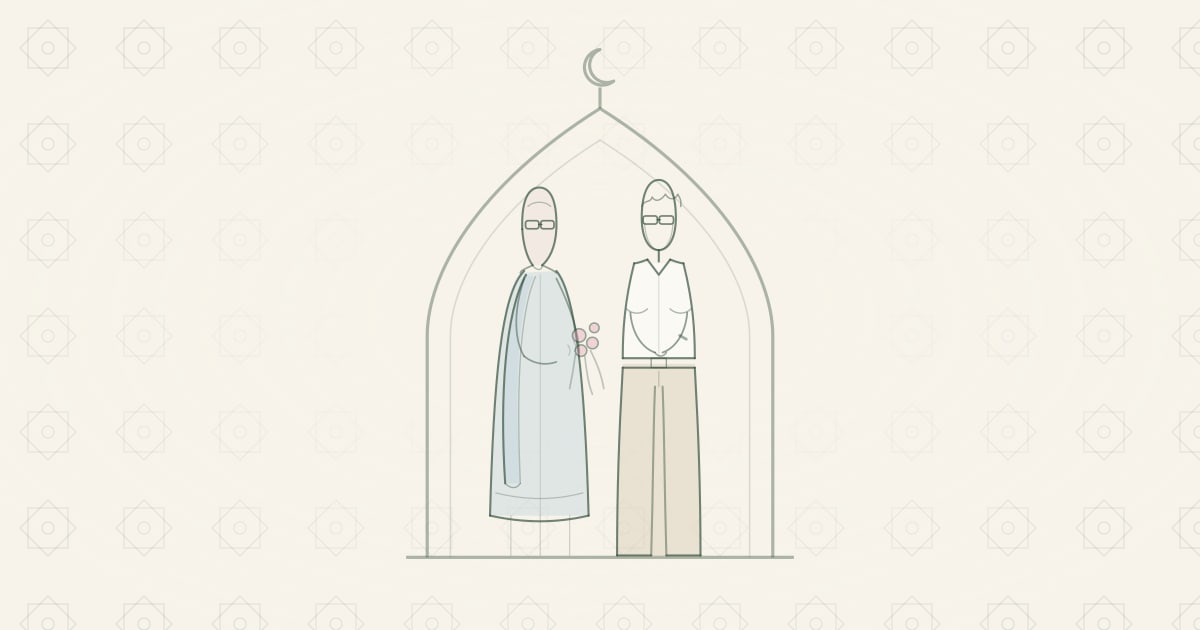
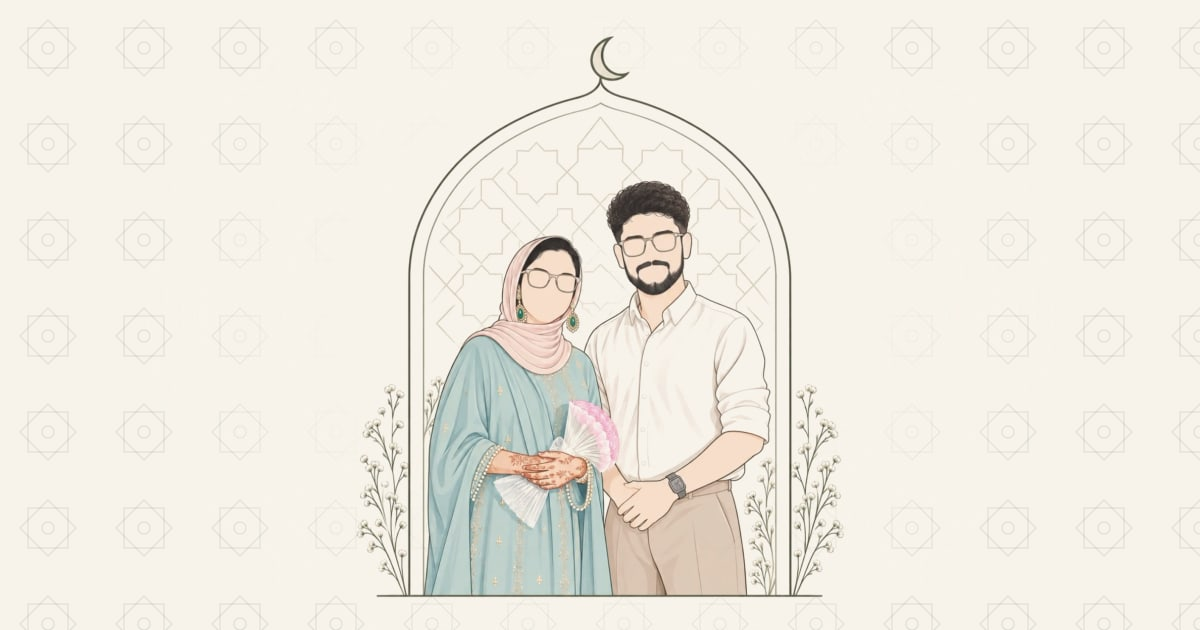
image blended

Changed region(s): [[0.3083, 0.2111, 0.7092, 0.9651], [0.4008, 0.0603, 0.5858, 0.2714]]

diff --git a/src/lib/site.ts b/src/lib/site.ts
@@ -19,9 +19,9 @@ export const site = {
 export const assets = {
   tile: '/assets/islamic/geometric-tile.svg',
   archHead: '/assets/islamic/arch-head.svg',
-  // Drop the couple's illustration in at this path and it replaces the drawn
-  // SVG automatically; until then `coupleFallback` is used.
-  couple: '/assets/couple.png',
+  // Made from art/couple-source.png by `npm run couple`. If it's missing, the
+  // drawn SVG (`coupleFallback`) is shown instead.
+  couple: '/assets/couple.webp',
   coupleFallback: '/assets/islamic/couple-illustration.svg',
   venue: '/assets/islamic/venue-illustration.svg',
   lantern: '/assets/islamic/lantern.svg',

diff --git a/src/components/Couple.tsx b/src/components/Couple.tsx
@@ -14,7 +14,9 @@ export function Couple() {
             src={portraitMissing ? assets.coupleFallback : assets.couple}
             onError={() => setPortraitMissing(true)}
             alt={`Illustration of ${site.bride.name} and ${site.groom.name}`}
-            className="w-[min(420px,86vw)] h-auto mx-auto select-none"
+            // multiply: the image's white background takes on the page colour,
+            // so there's no visible rectangle around the illustration
+            className="w-[min(420px,86vw)] h-auto mx-auto select-none mix-blend-multiply"
           />
         </Reveal>
 

diff --git a/README.md b/README.md
@@ -9,17 +9,23 @@ every piece is editable text and stays sharp at any size.
 
 ### The couple's picture
 
-`Couple.tsx` shows `public/assets/couple.png` if that file exists, and falls back to the
-drawn SVG if it doesn't — so dropping a new illustration in at that path is the whole
-edit, no code change.
+The artwork lives outside the site at `art/couple-source.png`. Prepare it with:
 
-**Size for the replacement:** the picture is displayed at a maximum of **420 px wide**, so
-export at **1260 px wide** (3x, for retina screens); anything above ~1600 px is wasted
-weight. Height is free — the layout uses whatever aspect ratio the file has; the current
-drawing is 520x560 (roughly square), and a portrait 2:3 crop works equally well. Save it
-as PNG with either a transparent background or the page's ivory (#F7F3EA), and with **no
-lettering on it** — the section prints the names and the invitation line itself, just
-below the picture.
+```bash
+npm run couple   # → public/assets/couple.webp
+npm run og       # refresh the WhatsApp preview from it
+```
+
+The source is drawn on textured cream paper. `prepare-couple` divides that paper tone out
+so the background becomes pure white, lifts the paper grain to white, and paints a thin
+edge band white (the source has a faint 1px frame). On the page the image uses
+`mix-blend-mode: multiply`, so its white takes on the page's exact ivory — no visible box.
+Colours in the artwork are kept. The result is ~95 KB instead of the 1.6 MB source.
+
+To replace the artwork later, overwrite `art/couple-source.png` and run both commands.
+Anything around **1260 px wide** is right (it displays at up to 420 px); keep lettering off
+the image, since the section prints the names itself. If `couple.webp` is missing, the drawn
+SVG is shown instead.
 
 `couple-illustration.svg` is the fallback, drawn from the engagement photo —
 her pale blue kurta and dupatta, his white shirt with rolled sleeves and stone trousers,
